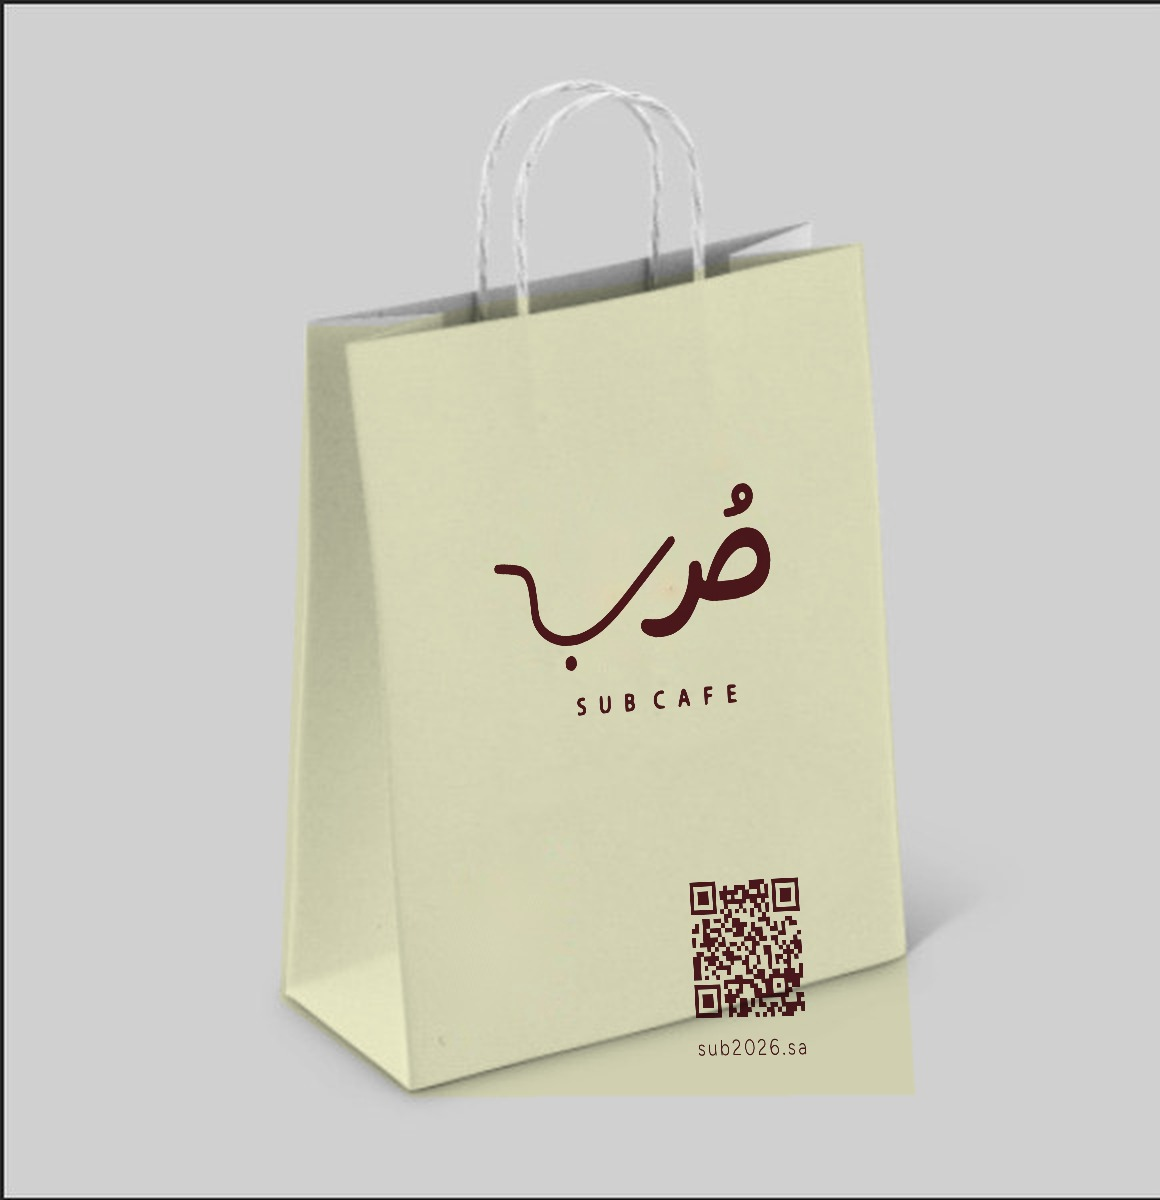
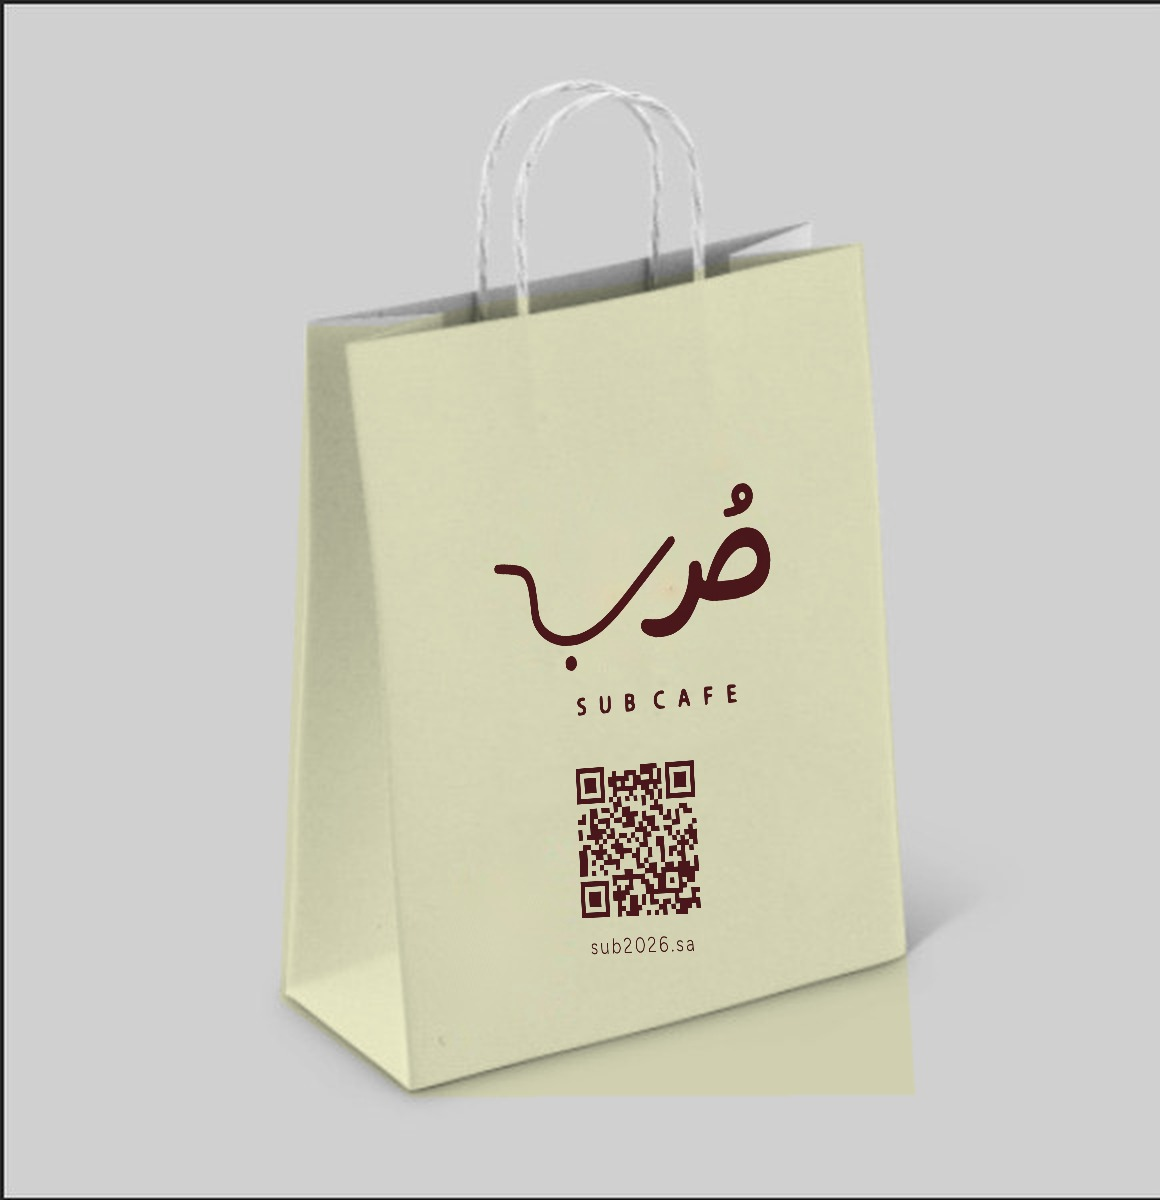
قرارات ضيف الله: الكيس كريمي وQR تحت الشعار، كوب 9 أونص كريمي، صنبور الجك في الأسفل، كوب المياه الغازية أقصر
Claude-Session: https://claude.ai/code/session_01NvsKRgj7YmUdQ536nwERSs

Changed region(s): [[0.4966, 0.6167, 0.7138, 0.8942]]

diff --git a/brand.js b/brand.js
@@ -23,7 +23,7 @@ ${bcard('هوية صُب في صورة واحدة',`<div class="bgrid3">${bimg('
 <p class="sub">كل تصنيف فيه المعاينة وملفات التنزيل والمقاسات. ما يحتاج قالبًا من المورّد موسوم بذلك.</p>`,'ready')}
 ${bcard('جاهزية العناصر',btable(['العنصر','الحالة','ما ينقص'],[
  ['الشعار بصيغه وملفاته',bst('ready'),'—'],['الألوان والخطوط والأيقونات والباترن',bst('ready'),'رقم بانتون بعد طبعة اختبار'],
- ['كوب 12 أونص ورقي',bst('ready'),'إضافة الظهر لملف الطباعة بعد اعتماد الجملة'],['كوب 9 أونص على قالب المطبعة',bst('ready'),'—'],['أكواب 4 و7',bst('wait'),'قوالب القص من المطبعة'],['كوب الفريدو 8 أونص',bst('ready'),'منطقة الطباعة من مورّد البلاستيك'],['كيس السفري',bst('ready'),'اختيار الأبيض أو الكريمي'],['حامل الإسبريسو والمياه الغازية',bst('ready'),'—'],['صندوق جك القهوة 1.5 لتر',bst('ready'),'—'],
+ ['كوب 12 أونص ورقي',bst('ready'),'إضافة الظهر لملف الطباعة بعد اعتماد الجملة'],['كوب 9 أونص على قالب المطبعة',bst('ready'),'—'],['أكواب 4 و7',bst('wait'),'قوالب القص من المطبعة'],['كوب الفريدو 8 أونص',bst('ready'),'منطقة الطباعة من مورّد البلاستيك'],['كيس السفري (كريمي)',bst('ready'),'—'],['حامل الإسبريسو والمياه الغازية',bst('ready'),'—'],['صندوق جك القهوة 1.5 لتر',bst('ready'),'—'],
  ['الأكواب الباردة',bst('ready'),'منطقة الطباعة من مورّد البلاستيك'],['الحلى: ستيكر، علم، كيس، علبة',bst('ready'),'قالب العلبة من المورّد'],
  ['كرت العمل، ستيكر الباب، كرت الشكر',bst('ready'),'—'],['ملصقات أكياس البن',bst('ready'),'بيانات الهيئة النهائية'],['لوحة المنيو',bst('ready'),'السعرات المحسوبة لكل وصفة'],
  ['الزي',bst('ready'),'عينة تطريز'],['الواجهة',bst('ready'),'اعتماد البلدية'],['السوشال',bst('ready'),'—'],['كوب الموسم',bst('wait'),'اعتماد الرسمة'],
@@ -81,7 +81,7 @@ ${btable(['القياس','القيمة'],[['طول خط الطباعة (الجن
 ${bcard('كوب 9 أونص: على قالب المطبعة',`<div class="bgrid2">${bimg('cup-9oz-cream.jpg','الكريمي: الشعار الكامل في الواجهة')}${bimg('cup-9oz-burgundy.jpg','العنابي: الشعار الكريمي')}</div>
 <p>القالب الذي أرسله ضيف الله من المطبعة («قالب كوب مقاس 9 أونص»): قوس بمحيط حافة <span class="num">244</span> مم وارتفاع شعاعي <span class="num">86</span> مم، أي كوب بقطر علوي <span class="num">77</span> مم وسفلي <span class="num">61</span> مم. الشعار الكامل بعرض <span class="num">56</span> مم في منتصف القوس (واجهة الكوب)، والجملة «القهوة المختصة تُصب ببال طويل» وشعارات المنصات مع <span dir="ltr">sub2026.sa</span> على جانبي خط اللصق (خلف الكوب)، لأن اللصق نفسه لا يُطبع عليه.</p>
 <div class="bgrid2">${bimg('print-9oz-cream.jpg','ملف الطباعة الكريمي على القالب')}${bimg('print-9oz-burgundy.jpg','ملف الطباعة العنابي على القالب')}</div>
-<div class="bdls">${bfile('print-9oz-cream.pdf','ملف طباعة 9 أونص: كريمي (PDF)','بحجم صفحة القالب نفسها، خطوط القالب فوق التصميم.')}${bfile('print-9oz-burgundy.pdf','ملف طباعة 9 أونص: عنابي (PDF)','بحجم صفحة القالب نفسها.')}</div>${bsrc('قالب القص المرسل من المطبعة؛ الأبعاد مقاسة من القوس')}`,'ready')}
+<p><b>قرار ضيف الله: الكريمي هو المعتمد للطباعة</b>، والعنابي للمقارنة.</p><div class="bdls">${bfile('print-9oz-cream.pdf','ملف طباعة 9 أونص: كريمي (PDF) — المعتمد','بحجم صفحة القالب نفسها، خطوط القالب فوق التصميم.')}${bfile('print-9oz-burgundy.pdf','ملف طباعة 9 أونص: عنابي (PDF) — للمقارنة','بحجم صفحة القالب نفسها.')}</div>${bsrc('قالب القص المرسل من المطبعة؛ الأبعاد مقاسة من القوس')}`,'ready')}
 ${bcard('الأحجام الأربعة',`<div class="bgrid2">${bimg('cups-lineup-cream.jpg','الأحجام الأربعة: كريمي')}${bimg('cups-lineup-burgundy.jpg','الأحجام الأربعة: عنابي')}</div>
 ${btable(['الحجم','المشروب','القطر العلوي','القطر السفلي','الارتفاع','حالة القالب'],[
  ['<b>4 أونص</b>','إسبريسو','<span class="num">62</span> مم','<span class="num">45</span> مم','<span class="num">60</span> مم',tag('تقديري: يلزم قالب المطبعة','warn')],
@@ -134,12 +134,12 @@ BV.prints=()=>`
 ${bcard('كرت العمل 90×54',`<div class="bgrid2">${bimg('business-card.jpg','الوجه: عنابي بالشعار وحده')}${bimg('business-card-back.jpg','الظهر: كريمي بالاسم والوظيفة والمعرّف')}</div><div class="bdls">${bfile('business-card.pdf','كرت العمل (PDF)','صفحتان، متجه، بهامش قص 3 مم.')}</div>`,'ready')}
 ${bcard('المنيو',`${bimg('menu-board-a3.jpg','لوحة المنيو A3: عمود ثابت السعر | السعرات')}<p>لوحة عنابية خلف الكاشير: الشعار في الأعلى، أقسام إسبريسو وفلتر ومثلج وأخرى، ولكل صنف ثلاثة أعمدة: الاسم، السعرات بالملّيلتر، السعر. في الأسفل «نطحن عند الطلب» وعبارة الاحتياج اليومي.</p><div class="note warn">السعرات في الملف أرقام تجريبية. تُستبدل بالقيم المحسوبة من قسم «المنيو والتكلفة» قبل الطباعة، وتُكتب بنفس حجم ولون خط الصنف. أيقونات الحساسية من قسم الألوان تُضاف بجانب كل صنف.</div><div class="bdls">${bfile('menu-board-a3.pdf','لوحة المنيو A3 (PDF)','قالب متجه قابل للتعديل.')}</div>`,'ready')}
 ${bcard('أكياس البن 250 جم',`${bimg('bags-preview.jpg','كيس واحد بلونين، والملصق يفرّق الأصول')}`+btable(['الأصل','الكيس','الملصق'],[['الإسبريسو','عنابي بالشعار الكريمي','كريمي 90×60 مم'],['الفلتر','كريمي بالشعار العنابي','عنابي 90×60 مم']])+`<p class="sub" style="margin-top:8px">الملصق يحمل: الاسم، المنشأ، المعالجة، الإيحاءات، الوزن، وسطرًا للتحميص والانتهاء والدفعة يُختم بالحبر. <b>البطاقة الإلزامية</b> للمنتج المعبأ (المكونات، اسم المعبّئ وعنوانه، بلد المنشأ، التخزين) على ستيكر خلفي.</p><div class="bdls">${bfile('coffee-label-espresso.pdf','ملصق الإسبريسو (PDF)','')}${bfile('coffee-label-filter.pdf','ملصق الفلتر (PDF)','')}</div>`,'ready')}
-${bcard('كيس السفري',`${bimg('bag-takeaway-preview.jpg','كيس أبيض وكيس كريمي، الطباعة عنابية في الاثنين')}<p>نفس تكوين الكيس المرجعي: الشعار الكامل في منتصف الوجه، ورمز QR أسفل اليمين محاذيًا لحافة الشعار يفتح <span dir="ltr">https://sub2026.sa</span>، وتحته المعرّف بخط Figtree. الخيار بين الأبيض والكريمي قرار ضيف الله.</p><div class="bdls">${bfile('bag-front-artwork.png','أرتوورك وجه الكيس (PNG شفاف)','نسبة 26×34 سم، يُوضع على قالب المورّد.')}${bfile('bag-takeaway-white.jpg','الكيس الأبيض (صورة)','')}${bfile('bag-takeaway-cream.jpg','الكيس الكريمي (صورة)','')}</div>${bsrc('صورة مرجعية أرسلها ضيف الله أُعيد رسمها بهوية صُب')}`,'ready')}
+${bcard('كيس السفري',`${bimg('bag-takeaway-preview.jpg','كيس أبيض وكيس كريمي، الطباعة عنابية في الاثنين')}<p>نفس تكوين الكيس المرجعي: الشعار الكامل في منتصف الوجه، ورمز QR في منتصف الوجه تحت الشعار مباشرة (موضع حدده ضيف الله) يفتح <span dir="ltr">https://sub2026.sa</span>، وتحته المعرّف بخط Figtree. <b>قرار ضيف الله: الكيس الكريمي هو المعتمد</b>؛ النسخة البيضاء للمقارنة فقط.</p><div class="bdls">${bfile('bag-front-artwork.png','أرتوورك وجه الكيس (PNG شفاف)','نسبة 26×34 سم، يُوضع على قالب المورّد.')}${bfile('bag-takeaway-white.jpg','الكيس الأبيض (صورة)','')}${bfile('bag-takeaway-cream.jpg','الكيس الكريمي (صورة)','')}</div>${bsrc('صورة مرجعية أرسلها ضيف الله أُعيد رسمها بهوية صُب')}`,'ready')}
 ${bcard('حامل الإسبريسو والمياه الغازية',`<div class="bgrid2">${bimg('carrier-espresso-water.jpg','بعد التجميع: كوب إسبريسو ورقي 4 أونص وكوب مياه غازية شفاف')}${bimg('print-carrier-espresso-water.jpg','ملف الطباعة على قالب المطبعة')}</div>
 <p>قالب المطبعة: صندوق مسطح <span class="num">220</span>×<span class="num">120</span>×<span class="num">35</span> مم بفتحتين قطر <span class="num">55</span> مم تستقر فيهما الكأسان، وشقّان صغيران في الوسط. اللوح العلوي: الشعار المضغوط بين الفتحتين وتحته المعرّف. الجانب الطويل الأمامي: الجملة. الخلفي: شعارات المنصات والمعرّف. القاع: الباترن الخفيف والشعار المضغوط. الألسنة الجانبية: الشعار المضغوط. كرتون كريمي وطباعة عنابية بلون واحد.</p>
 <div class="bdls">${bfile('print-carrier-espresso-water.pdf','ملف طباعة الحامل (PDF)','بحجم صفحة القالب 330×480 مم، خطوط القالب فوق التصميم.')}</div>${bsrc('قالب القص المرسل من المطبعة')}`,'ready')}
-${bcard('صندوق جك القهوة 1.5 لتر',`<div class="bgrid2">${bimg('jug-1-5L.jpg','بعد التجميع: مقبض علوي وصنبور جانبي')}${bimg('print-jug-1-5L.jpg','ملف الطباعة على القالب (خطوط القص والطي فقط من الملف الأصلي)')}</div>
-<p>القالب الذي أرسله ضيف الله هو قالب صندوق جك قهوة لمقهى آخر (يوترن)؛ أُخذت منه خطوط القص والطي والتثقيب فقط وأُزيلت رسوماته كلها. الجسم <span class="num">210</span>×<span class="num">100</span>×<span class="num">220</span> مم، مقبض من لسانين علويين، فتحة صنبور قطر <span class="num">61</span> مم، ونافذة تمزيق على الجانب. الواجهة: الشعار الكامل بعرض 125 مم والجملة. الجانب: الشعار المضغوط و«1.5 لتر». الخلف: الجملة وشعارات المنصات والشعار المضغوط. لا طباعة فوق فتحات القص.</p>
+${bcard('صندوق جك القهوة 1.5 لتر',`<div class="bgrid2">${bimg('jug-1-5L.jpg','بعد التجميع: مقبض علوي وصنبور في أسفل الجانب')}${bimg('print-jug-1-5L.jpg','ملف الطباعة على القالب (خطوط القص والطي فقط من الملف الأصلي)')}</div>
+<p>القالب الذي أرسله ضيف الله هو قالب صندوق جك قهوة لمقهى آخر (يوترن)؛ أُخذت منه خطوط القص والطي والتثقيب فقط وأُزيلت رسوماته كلها. الجسم <span class="num">210</span>×<span class="num">100</span>×<span class="num">220</span> مم، مقبض من لسانين علويين، فتحة صنبور قطر <span class="num">61</span> مم في أسفل الجانب (قرار ضيف الله)، ونافذة تمزيق على الجانب. الواجهة: الشعار الكامل بعرض 125 مم والجملة. الجانب: الشعار المضغوط و«1.5 لتر». الخلف: الجملة وشعارات المنصات والشعار المضغوط. لا طباعة فوق فتحات القص.</p>
 <div class="bdls">${bfile('print-jug-1-5L.pdf','ملف طباعة صندوق الجك (PDF)','بحجم صفحة القالب 733.8×562.4 مم.')}</div>${bsrc('قالب القص المرسل من المطبعة (UTurn_dieCut)')}`,'ready')}
 ${bcard('قرطاسية أخرى',`<div class="bgrid2">${bimg('receipt-header.png','رأس ورق الفاتورة الحرارية',240)}<div>${btable(['العنصر','المواصفة'],[['ورق الفاتورة','الشعار الأسود في الرأس ثم سطر الاسم والمدينة والمعرّف. حقول الفاتورة ورمز QR يولّدها نظام نقاط البيع ولا يُغطَّى الرمز.'],['كرت الشكر','85×55 كريمي: الشعار وجملة «صُب لك على مهلك» والمعرّف. داخل كل طلب توصيل.'],['كرت الولاء','رقمي عبر نقاط البيع؛ لا كرت مطبوع.']])}<div class="bdls">${bfile('receipt-header.png','رأس الفاتورة (PNG)','384 بكسل لطابعة 80 مم.')}${bfile('thank-you-card.pdf','كرت الشكر (PDF)','')}</div></div></div>`,'ready')}`;
 

diff --git a/sw.js b/sw.js
@@ -1,5 +1,5 @@
 // يحفظ واجهة التطبيق على الجوال، ويعرض الإشعارات حتى والتطبيق مغلق
-const C='sub-v19';
+const C='sub-v20';
 const API='https://script.google.com/macros/s/AKfycbyLF3MAe7sq1LGwAxI1lY5V63UiTcRdT2fR9Y8SJiLPDJ-jz7c8Yyw8yud5NZxa8H00/exec';
 const FILES=['./','index.html','brand.js','manifest.webmanifest','icon-192.png','icon-512.png','icon-180.png'];
 self.addEventListener('install',e=>{e.waitUntil(caches.open(C).then(c=>c.addAll(FILES)));self.skipWaiting();});
